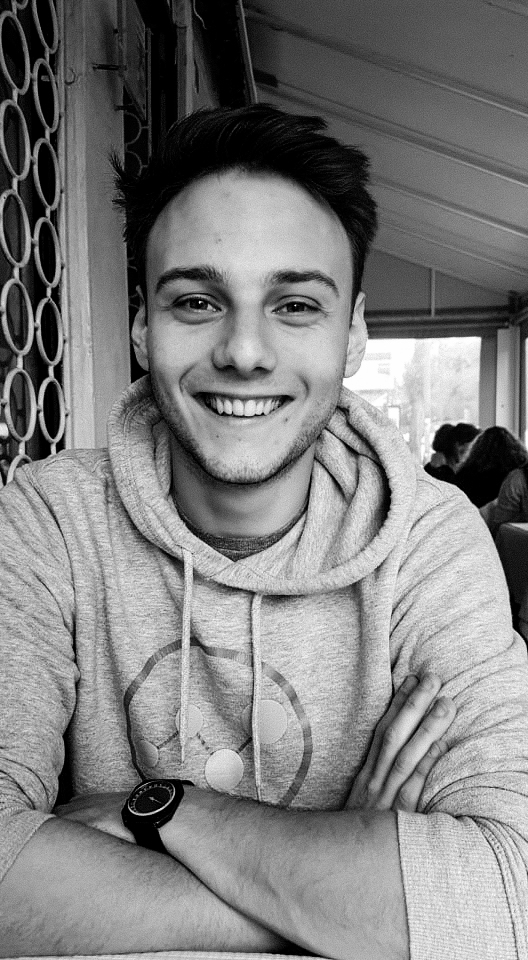
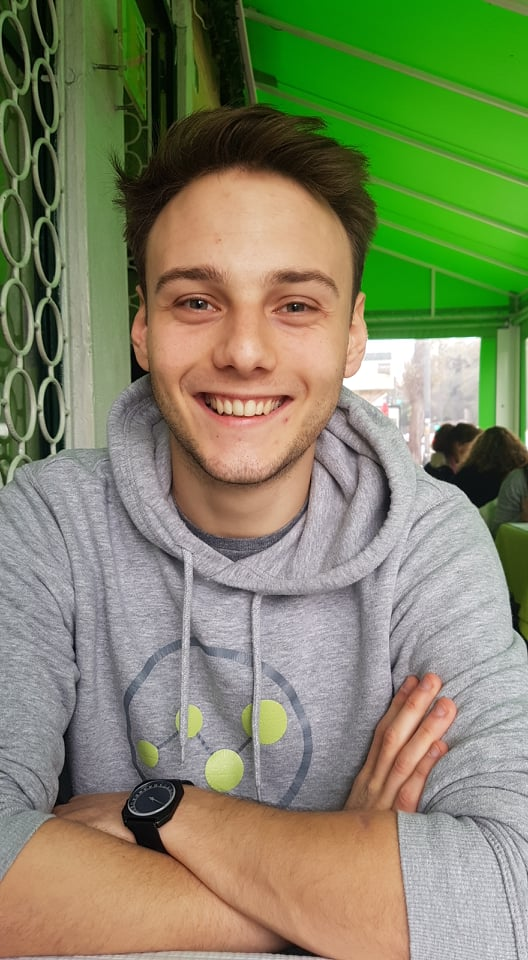
Colored photos (change to bw when toggled) and only 1 speaker displayed

diff --git a/index.html b/index.html
@@ -583,7 +583,7 @@
                                                 </div>
                                             </div>
                                         </div>
-                                        <div class="ind_speaker18_container" id="speaker18_2">
+                                        <div class="ind_speaker18_container" id="speaker18_2" style="display: none">
                                             <div class="overlay_name">Arlindo Oliveira</div>
                                             <div class="ind_container" id="ind_container_2">
                                                 <div class="speaker_info" id="info_speaker2">
@@ -603,7 +603,7 @@
                                                 </div>
                                             </div>
                                         </div>
-                                        <div class="ind_speaker18_container" id="speaker18_3">
+                                        <div class="ind_speaker18_container" id="speaker18_3" style="display: none">
                                             <div class="overlay_name">Arlindo Oliveira</div>
                                             <div class="ind_container" id="ind_container_3">
                                                 <div class="speaker_info" id="info_speaker3">
@@ -623,7 +623,7 @@
                                                 </div>
                                             </div>
                                         </div>
-                                        <div class="ind_speaker18_container" id="speaker18_4">
+                                        <div class="ind_speaker18_container" id="speaker18_4" style="display: none">
                                             <div class="overlay_name">Arlindo Oliveira</div>
                                             <div class="ind_container" id="ind_container_4">
                                                 <div class="speaker_info" id="info_speaker4">
@@ -644,7 +644,7 @@
                                                 </div>
                                             </div>
                                         </div>
-                                        <div class="ind_speaker18_container" id="speaker18_5">
+                                        <div class="ind_speaker18_container" id="speaker18_5" style="display: none">
                                             <div class="overlay_name">Arlindo Oliveira</div>
                                             <div class="ind_container" id="ind_container_5">
                                                 <div class="speaker_info" id="info_speaker5">
@@ -666,7 +666,7 @@
                                             </div>
                                         </div>
 
-                                        <div class="ind_speaker18_container"id="speaker18_6">
+                                        <div class="ind_speaker18_container"id="speaker18_6" style="display: none">
                                             <div class="overlay_name">Arlindo Oliveira</div>
                                             <div class="ind_container" id="ind_container_6">
                                                 <div class="speaker_info" id="info_speaker6">
@@ -686,7 +686,7 @@
                                                 </div>
                                             </div>
                                         </div>
-                                        <div class="ind_speaker18_container" id="speaker18_7">
+                                        <div class="ind_speaker18_container" id="speaker18_7" style="display: none">
                                             <div class="overlay_name">Arlindo Oliveira</div>
                                             <div class="ind_container" id="ind_container_7">
                                                 <div class="speaker_info" id="info_speaker7">
@@ -707,7 +707,7 @@
                                                 </div>
                                             </div>
                                         </div>
-                                        <div class="ind_speaker18_container" id="speaker18_8">
+                                        <div class="ind_speaker18_container" id="speaker18_8" style="display: none">
                                             <div class="overlay_name">Arlindo Oliveira</div>
                                             <div class="ind_container" id="ind_container_8">
                                                 <div class="speaker_info" id="info_speaker8">
@@ -727,7 +727,7 @@
                                                 </div>
                                             </div>
                                         </div>
-                                        <div class="ind_speaker18_container" id="speaker18_9">
+                                        <div class="ind_speaker18_container" id="speaker18_9" style="display: none">
                                             <div class="overlay_name">Arlindo Oliveira</div>
                                             <div class="ind_container" id="ind_container_9">
                                                 <div class="speaker_info" id="info_speaker9">
@@ -747,7 +747,7 @@
                                                 </div>
                                             </div>
                                         </div>
-                                        <div class="ind_speaker18_container" id="speaker18_10">
+                                        <div class="ind_speaker18_container" id="speaker18_10" style="display: none">
                                             <div class="overlay_name">Arlindo Oliveira</div>
                                             <div class="ind_container" id="ind_container_10">
                                                 <div class="speaker_info" id="info_speaker10">

diff --git a/js/speakers.js b/js/speakers.js
@@ -3,7 +3,7 @@ $(document).ready(function(){
     var slow = 250;
     var fast = 100;
 
-    preload_pics=["images/speakers/unknown-avatar.jpg","images/speakers/1_arlindo.jpg","images/speakers/3_rosarinho.jpg","images/speakers/7_darchite.jpg","images/speakers/8_zaid.jpg","images/speakers/10_diogo.jpg","images/speakers/11_jans.jpg","images/speakers/12_carmo.jpg"];
+    preload_pics=["images/speakers/1_arlindo.jpg","images/speakers/3_rosarinho.jpg","images/speakers/7_darchite.jpg","images/speakers/8_zaid.jpg","images/speakers/10_diogo.jpg","images/speakers/11_jans.jpg","images/speakers/12_carmo.jpg","/images/speakers/bw/1_arlindo.jpg"];
 
     var images = [];
     function preload() {
@@ -150,5 +150,51 @@ $(document).ready(function(){
                 
         }
     }
+    
+    
+    
+    $("#ind_container_1").click(function() {
+        document.getElementById('ind_container_1').style.backgroundImage = 'url(./images/speakers/bw/1_arlindo.jpg)';
+    });
+    
+    $("#ind_container_2").click(function() {
+        document.getElementById('ind_container_2').style.backgroundImage = 'url(./images/speakers/bw/1_arlindo.jpg)';
+    });
+    
+    $("#ind_container_3").click(function() {
+        document.getElementById('ind_container_3').style.backgroundImage = 'url(./images/speakers/bw/1_arlindo.jpg)';
+    });
+    
+    $("#ind_container_4").click(function() {
+        document.getElementById('ind_container_4').style.backgroundImage = 'url(./images/speakers/bw/1_arlindo.jpg)';
+    });
+    
+    $("#ind_container_5").click(function() {
+        document.getElementById('ind_container_5').style.backgroundImage = 'url(./images/speakers/bw/1_arlindo.jpg)';
+    });
+    
+    $("#ind_container_6").click(function() {
+        document.getElementById('ind_container_6').style.backgroundImage = 'url(./images/speakers/bw/1_arlindo.jpg)';
+    });
+    
+    $("#ind_container_7").click(function() {
+        document.getElementById('ind_container_7').style.backgroundImage = 'url(./images/speakers/bw/1_arlindo.jpg)';
+    });
+    
+    $("#ind_container_8").click(function() {
+        document.getElementById('ind_container_8').style.backgroundImage = 'url(./images/speakers/bw/1_arlindo.jpg)';
+    });
+    
+    $("#ind_container_9").click(function() {
+        document.getElementById('ind_container_9').style.backgroundImage = 'url(./images/speakers/bw/1_arlindo.jpg)';
+    });
+    
+    $("#ind_container_10").click(function() {
+        document.getElementById('ind_container_10').style.backgroundImage = 'url(./images/speakers/bw/1_arlindo.jpg)';
+    });
+    
+    
+    
+    
     
 });

diff --git a/css/speakers.css b/css/speakers.css
@@ -83,47 +83,47 @@
 }
 
 #ind_container_2 {
-    background: url("../images/speakers/unknown-avatar.jpg") no-repeat center;
+    background: url("../images/speakers/1_arlindo.jpg") no-repeat center;
     background-size: auto 100%;
 }
 
 #ind_container_3 {
-    background: url("../images/speakers/3_rosarinho.jpg") no-repeat center;
+    background: url("../images/speakers/1_arlindo.jpg") no-repeat center;
     background-size: auto 100%;
 }
 
 #ind_container_4 {
-    background: url("../images/speakers/unknown-avatar.jpg") no-repeat center;
+    background: url("../images/speakers/1_arlindo.jpg") no-repeat center;
     background-size: auto 100%;
 }
 
 #ind_container_5 {
-    background: url("../images/speakers/unknown-avatar.jpg") no-repeat center;
+    background: url("../images/speakers/1_arlindo.jpg") no-repeat center;
     background-size: auto 100%;
 }
 
 #ind_container_6 {
-    background: url("../images/speakers/unknown-avatar.jpg") no-repeat center;
+    background: url("../images/speakers/1_arlindo.jpg") no-repeat center;
     background-size: auto 100%;
 }
 
 #ind_container_7 {
-    background: url("../images/speakers/7_darchite.jpg") no-repeat center;
+    background: url("../images/speakers/1_arlindo.jpg") no-repeat center;
     background-size: auto 100%;
 }
 
 #ind_container_8 {
-    background: url("../images/speakers/8_zaid.jpg") no-repeat center;
+    background: url("../images/speakers/1_arlindo.jpg") no-repeat center;
     background-size: auto 100%;
 }
 
 #ind_container_9 {
-    background: url("../images/speakers/unknown-avatar.jpg") no-repeat center;
+    background: url("../images/speakers/1_arlindo.jpg") no-repeat center;
     background-size: auto 100%;
 }
 
 #ind_container_10 {
-    background: url("../images/speakers/10_diogo.jpg") no-repeat center;
+    background: url("../images/speakers/1_arlindo.jpg") no-repeat center;
     background-size: auto 100%;
 }
 
